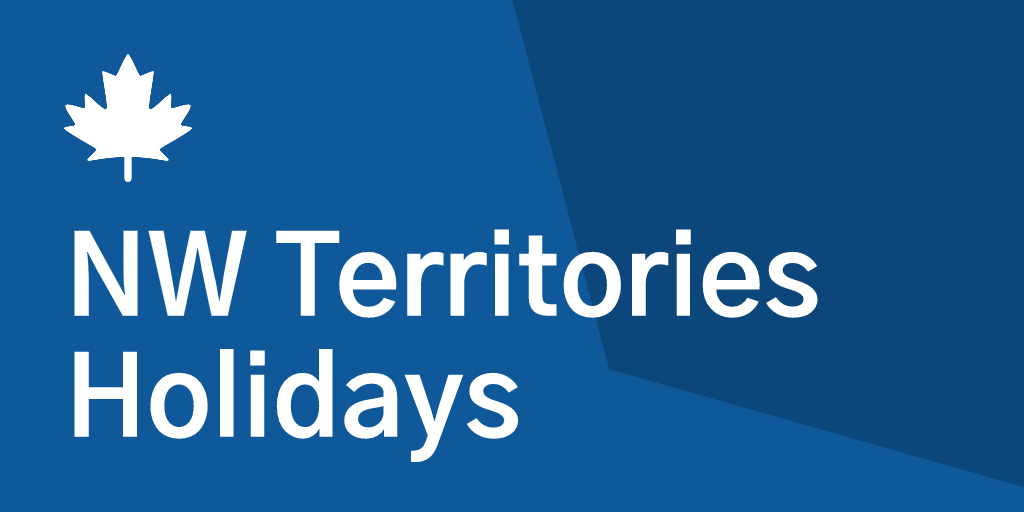
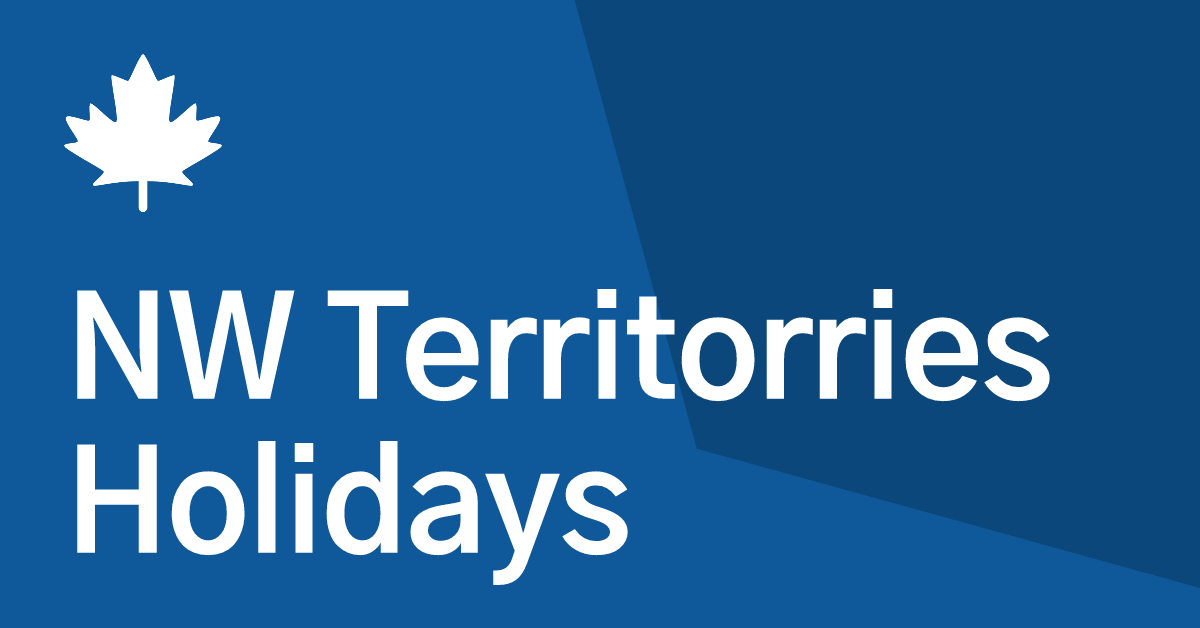
resized images for social sharing
it turns out that you need a 1.91:1 aspect ratio:
Recommended: 1200 x 628.

Source:
- https://louisem.com/217438/twitter-image-size

diff --git a/src/pages/_document.js b/src/pages/_document.js
@@ -28,8 +28,8 @@ const document = ({ title, content, docProps: { id, meta, path, region, richSnip
           region,
         })}" />
         <meta property="og:image:type" content="image/png" />
-        <meta property="og:image:width" content="1024" />
-        <meta property="og:image:height" content="512" />
+        <meta property="og:image:width" content="1200" />
+        <meta property="og:image:height" content="628" />
 
         <!-- twitter card tags additive with the og: tags -->
         <meta name="twitter:card" content="summary" />

diff --git a/TODO.md b/TODO.md
@@ -15,6 +15,7 @@
 - download link/button has nicer calendar icon
 - add opengraph images
   - shorten opengraph descriptions
+  - aspect ratio 1.91:1 (1200 x 628)
 - add next year links at the bottom
 - bug: rel no-opener
 - bug: don't focus on aria-hidden date in header

diff --git a/CHANGELOG.md b/CHANGELOG.md
@@ -7,6 +7,12 @@ and this project adheres to [Semantic Versioning](https://semver.org/spec/v2.0.0
 
 ## [Unreleased]
 
+## [2.14.2] - 2020-11-16
+
+### Fixed
+
+- update open graph images to aspect ratio of 1.91:1 (1200 x 628)
+
 ## [2.14.1] - 2020-11-16
 
 ### Updated
